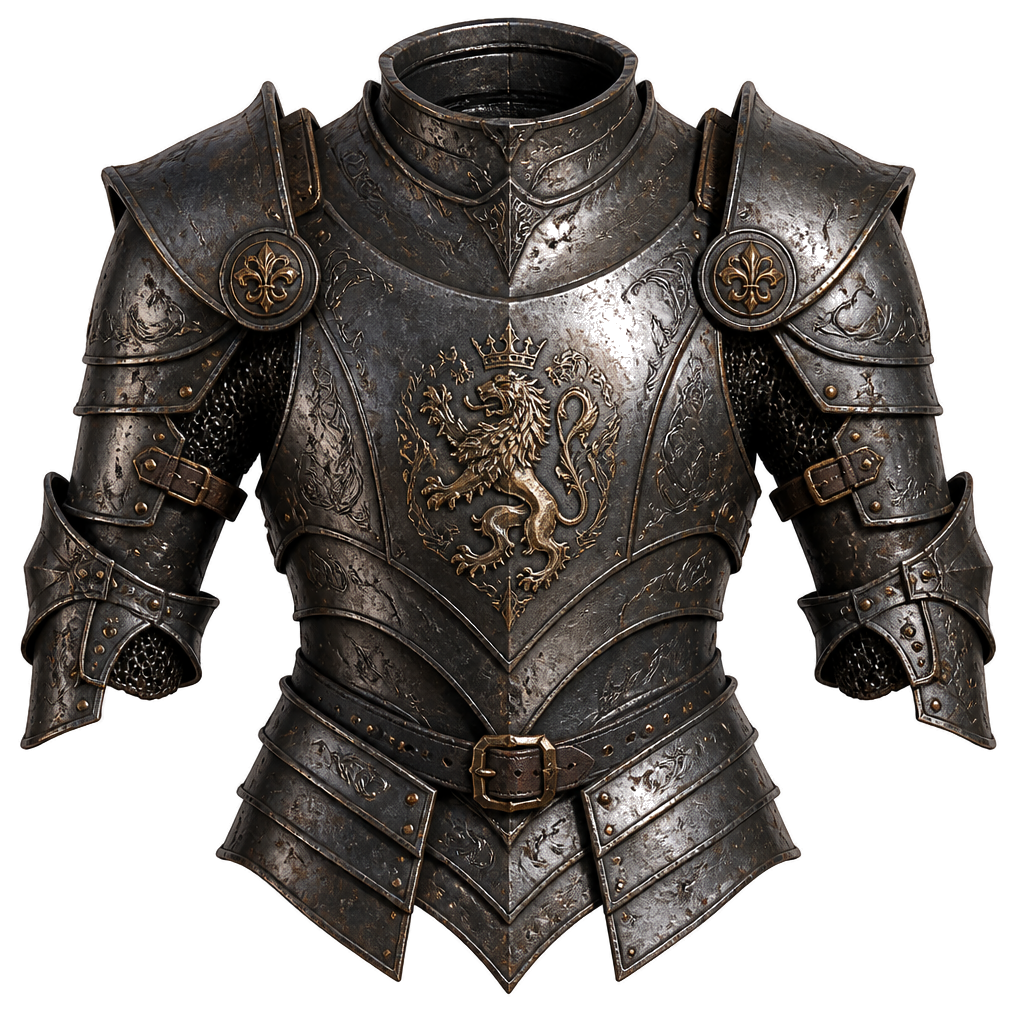
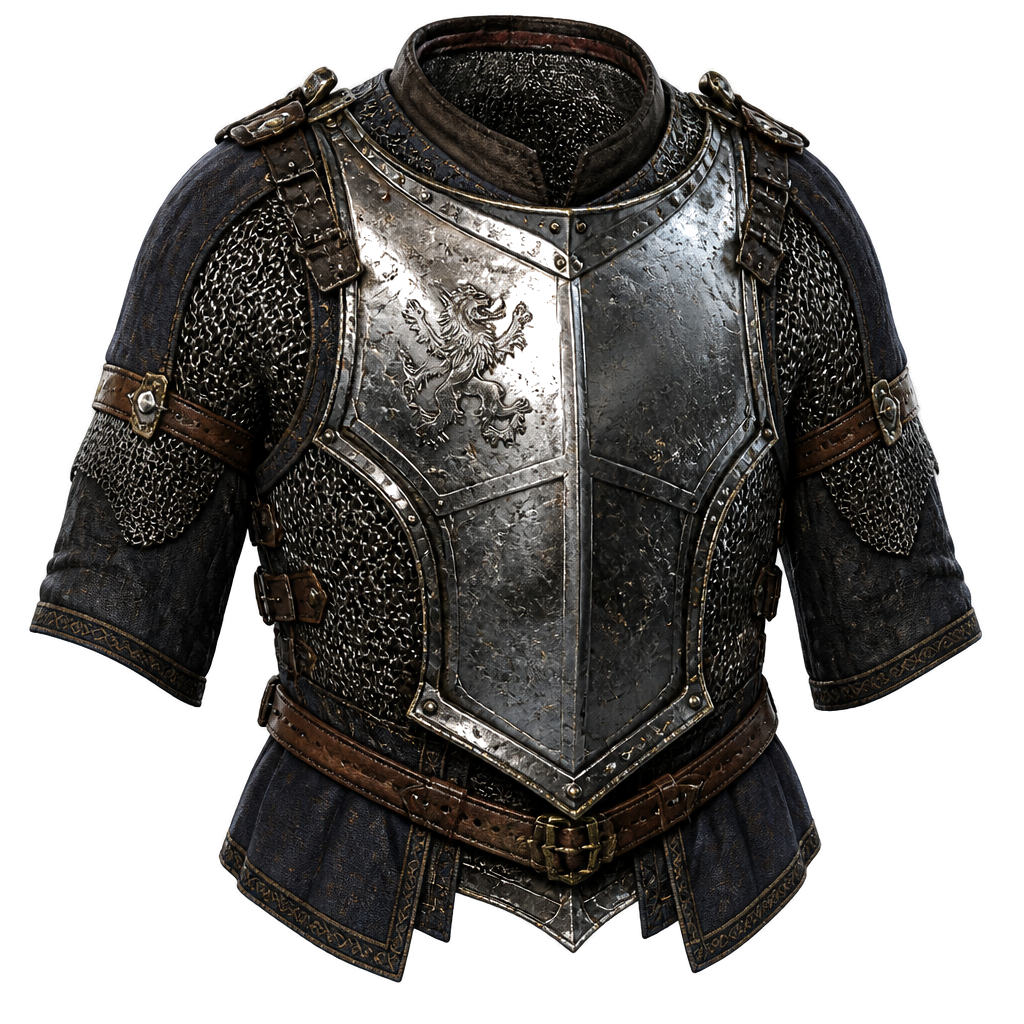
fix(items): 4 armor fixes + gender support em items-resolver
A) cota-de-talas: SPLINT/LAMELLAR (vertical metal strips), NÃO full plate
B) peitoral-furia-montanhas: EPIC granite-grey com mountain motifs + rune carvings
C) gibao-de-peles: wearable FUR JERKIN garment, NÃO folded pelt
D) meia-placa: HALF-PLATE hybrid (steel chest + cloth/chain joints)

E) items-resolver.js gender support:
   - iconHTML() detecta window.vPlayerGender
   - Se F + {slug}-f no manifest → usa female variant
   - Se M ou F sem variant → usa default {slug}.png
   - Fallback SVG sprite quando nada disponível

diff --git a/shared/items-resolver.js b/shared/items-resolver.js
@@ -153,10 +153,21 @@
   function iconHTML(slug, altText, viewBox) {
     // Synchronous: requires manifest already loaded.
     // Returns the right HTML string (img or svg-use) for embedding.
-    if (manifestState.loaded && hasManifestSlug(slug)) {
+    // Auto-detects player gender from window.vPlayerGender (set by game).
+    // If F and {slug}-f.png exists in manifest, uses female version.
+    if (manifestState.loaded) {
       var alt = (altText || slug).replace(/"/g, '&quot;');
-      return '<img src="' + pngBase + slug + '.png" alt="' + alt +
-             '" style="width:100%;height:100%;object-fit:contain" loading="lazy" data-item-slug="' + slug + '">';
+      // Try female variant if player is female
+      var gender = (typeof window !== 'undefined' && window.vPlayerGender) || 'M';
+      if (gender === 'F' && hasManifestSlug(slug + '-f')) {
+        return '<img src="' + pngBase + slug + '-f.png" alt="' + alt +
+               '" style="width:100%;height:100%;object-fit:contain" loading="lazy" data-item-slug="' + slug + '-f">';
+      }
+      // Fallback to default (masculine) version
+      if (hasManifestSlug(slug)) {
+        return '<img src="' + pngBase + slug + '.png" alt="' + alt +
+               '" style="width:100%;height:100%;object-fit:contain" loading="lazy" data-item-slug="' + slug + '">';
+      }
     }
     return '<svg viewBox="' + (viewBox || '0 0 120 120') +
            '"><use href="#' + SVG_SPRITE_PREFIX + slug + '"/></svg>';
